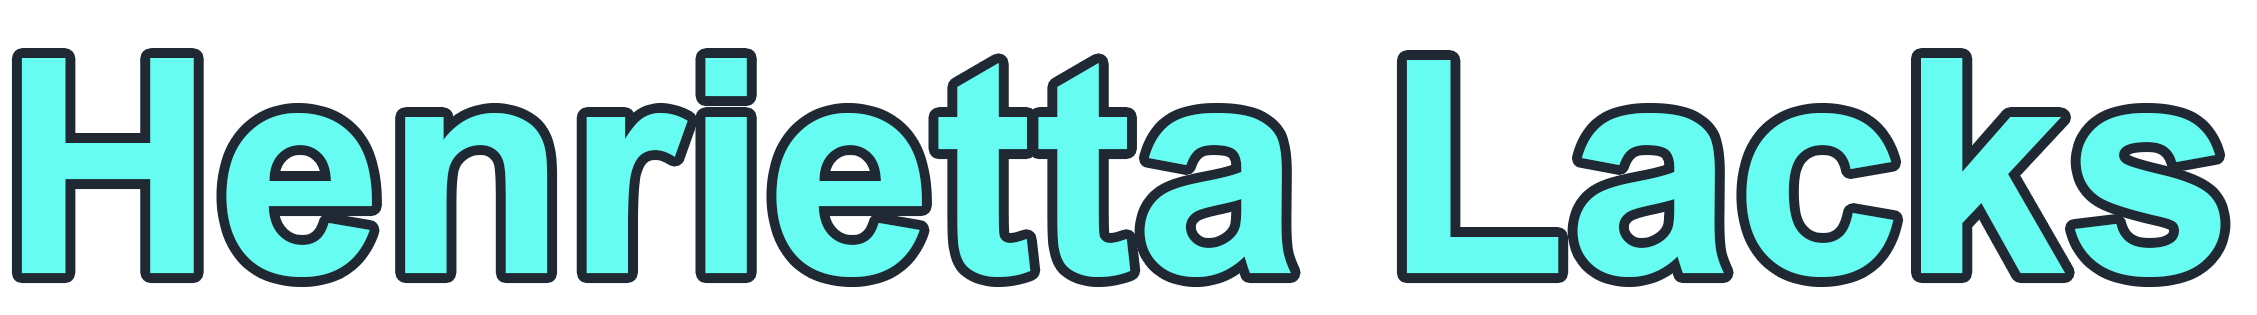
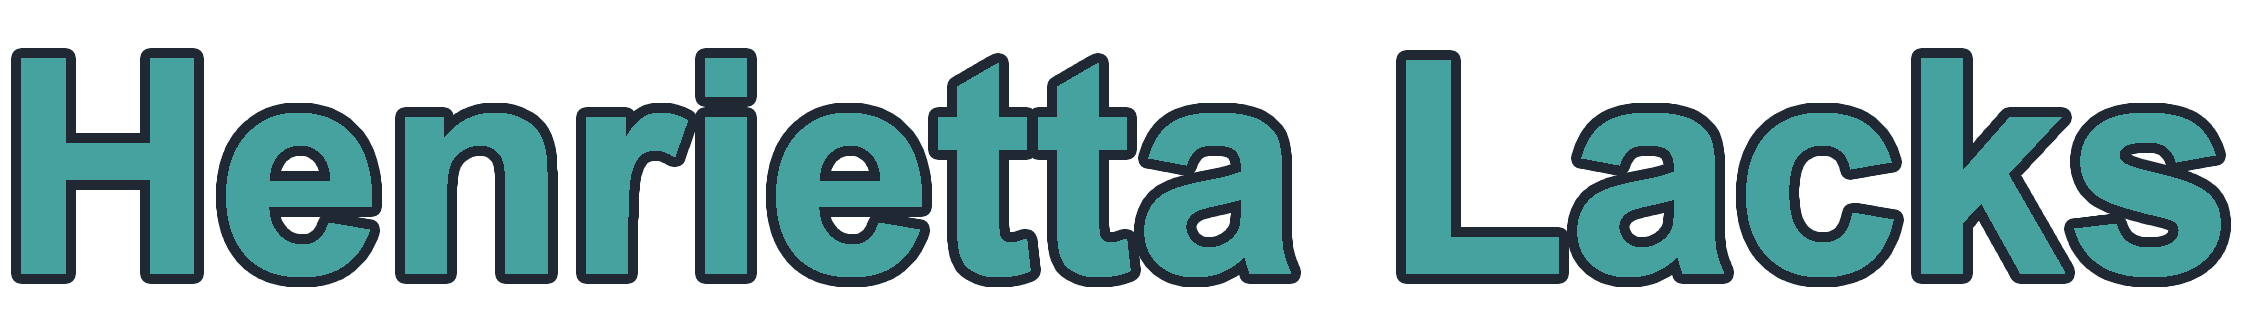
ColorChng

Changed region(s): [[0.0, 0.1714, 0.5893, 0.9143], [0.6203, 0.1714, 0.9925, 0.9143]]

diff --git a/index.html b/index.html
@@ -40,10 +40,10 @@ body,td,th {
 </center>
 	
 	
-	<table width="100%" border="5"  align="center" cellpadding="10" cellspacing="0" bordercolor="66FCF1" bgcolor="#283443">
+	<table width="100%" border="5"  align="center" cellpadding="10" cellspacing="0" bordercolor="45a29e" bgcolor="#283443">
   <tbody>
     <tr>
-      <td><table width="200" border="1" bordercolor="66FCF1" rules="rows" align="center" cellpadding="10" cellspacing="0">
+      <td><table width="200" border="1" bordercolor="45a29e" rules="rows" align="center" cellpadding="10" cellspacing="0">
   <tbody>
     <tr>
       <td style="text-align: center"><a href="../Home.html">Home</a></td>
